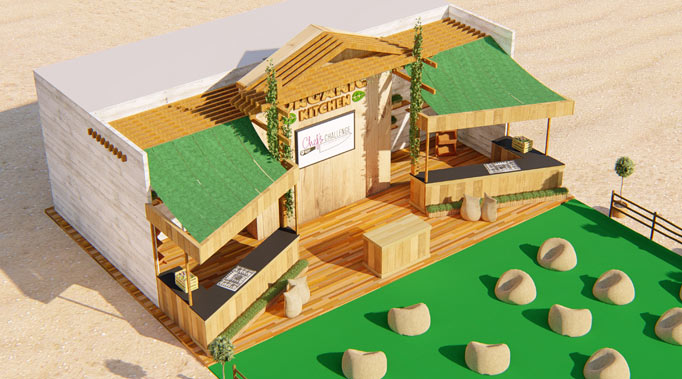
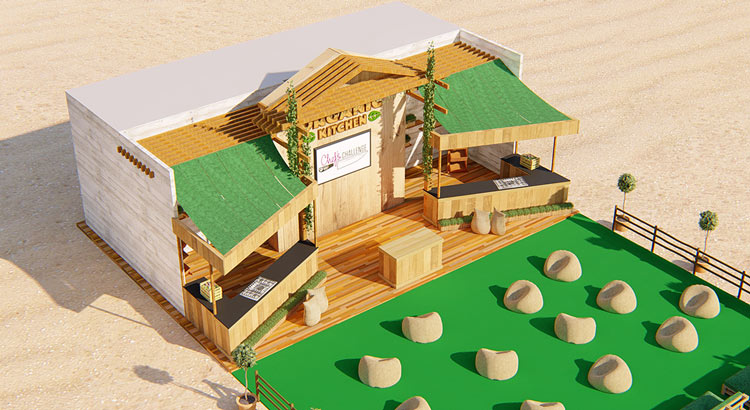
Organic Kitchen changes

diff --git a/organic_kitchen/index.html b/organic_kitchen/index.html
@@ -126,66 +126,25 @@
       <div class="col-lg-5">
           <div class="wow fadeInUp" style="padding-top:150px;">
               <p><strong>Organic Kitchen</strong></p>
-              <p>In 2006 a&amp;e magazine was launched. After almost a decade of success in print (in both Englishand Arabic) and vast circulation in the Middle East, namely UAE, Kuwait,
-              Qatar, Lebanon and KSA, a&amp;e decided to start a website counterpart of the magazine. Luxury news, inspiration and photoshoots will be at the viewers fingertips.</p>
+              <p>The Organic Kitchen is made using reclaimed wood, natural and white washed shiplap, and green material shade provided using repurposed materials.  Palettes with herbs and vegetables decorate various spaces. The space features 2 cooking stations and an LED screen TV in the center.</p>
           </div>
       </div>
 
+      <div class="col-lg-12">
+          <div style="padding-top:30px; padding-bottom:60px;">
+              <img src="../public/images/organic_kitchen/organic_kitchen03.jpg" />
+          </div>
+      </div>
 
-
-
-
-        <div class="col-lg-12">
-            <div style="padding-top:30px; padding-bottom:60px;">
-                <img src="../public/images/aeworld_home.jpg" />
-            </div>
-        </div>
-
-
-        <div class="col-lg-6">
-            <div class="wow fadeInUp" style="padding-top:30px; padding-bottom:60px;">
-                <p><strong>Objective</strong></p>
-                <p>The main objective of the website is to provide the editors of A&amp;E magazine an online access to upload daily editorials, news, fashion and lifestyle. </p>
-            </div>
-        </div>
-
-
-        <div class="col-lg-12">
-            <div style="padding-top:30px; padding-bottom:60px;">
-                <img src="../public/images/aeworld_page.jpg" />
-            </div>
-        </div>
-
-
+      <div class="col-lg-12">
+          <div style="padding-top:30px; padding-bottom:60px;">
+              <img src="../public/images/organic_kitchen/organic_kitchen04.jpg" />
+          </div>
+      </div>
 
     </div>
 </div>
 
-<!--##BRANDING###################################################################################################################-->
-<div style="background-color:#f1f1f1;">
-    <div class="container">
-        <div class="row">
-            <div class="col-lg-12">
-                <div class="work_small_desc">
-                    <h4>BRANDING</h4><br/>
-                    <ul>
-                      <li><strong>Tools:</strong> Illustrator, Sketchpad &amp; Pencil, Beautiful Fonts</li>
-                      <li><strong>Scope:</strong> Concept &amp; Design</li>
-                    </ul>
-                </div>
-            </div>
-
-
-            <div class="col-lg-12">
-                <div style="padding-top:30px; padding-bottom:120px;">
-                    <img src="../public/images/aeworld/aeworld_branding.png" />
-                </div>
-            </div>
-
-
-        </div>
-    </div>
-</div>
 
 
 
